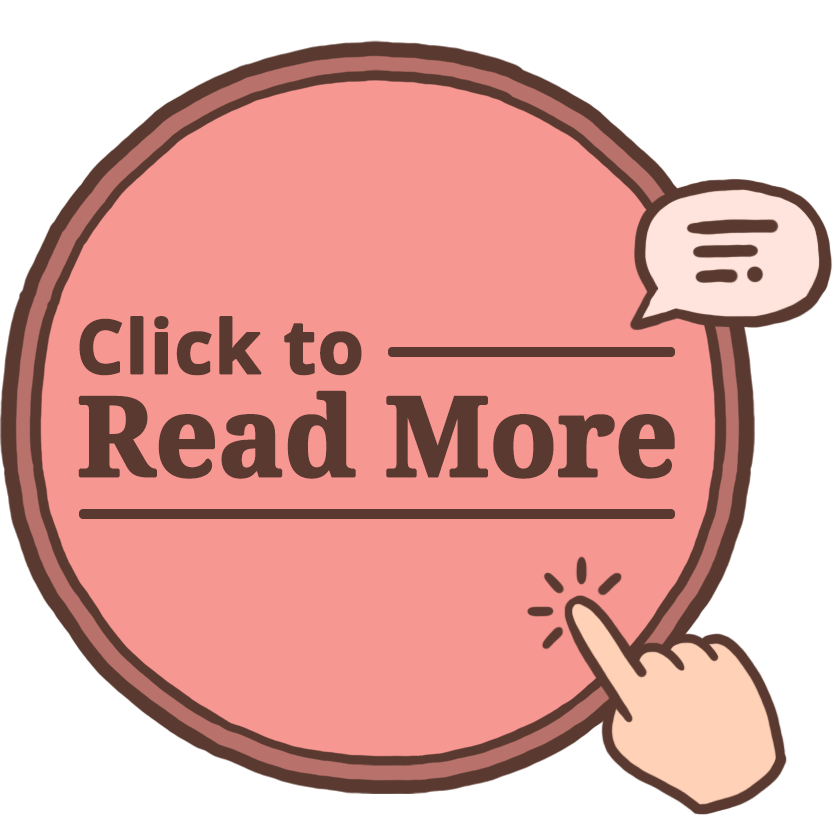
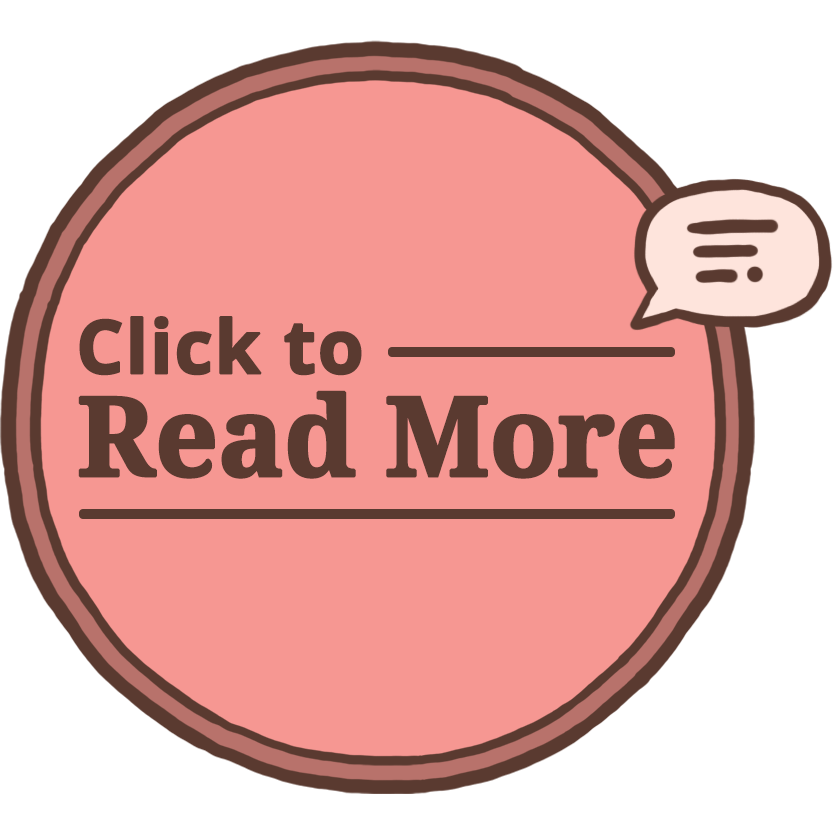
懶人包按鈕的手指更新

Changed region(s): [[0.6235, 0.6547, 0.9664, 0.9976]]

diff --git a/whitecollar/css/layout.css b/whitecollar/css/layout.css
@@ -60,20 +60,16 @@ box-shadow:0 0 10px rgba(0,0,0,0.4);
 }
 .cardBoard.dark {background-image:url("../images/bg-paper-dark.jpg");}
 
-/* .pinSection {margin-bottom:200px;}     */
-
 .wrapTable {display:table; width:100%; table-layout:fixed;}
 
 .cardwpr {position:relative; width:100%;
 margin:0 auto; padding:25px;
-/* display:flex; justify-content:center; align-items:center;      */
 box-sizing:border-box;
 display:table-cell;  
 vertical-align:middle; text-align:center;
 }
 
 .card {margin:auto;
-/* flex-shrink:0;   */
 max-width:100%;   
 max-height:100%;
 object-fit: contain;
@@ -147,10 +143,6 @@ box-sizing:border-box;
 text-align:center;
 }
 .interview--portrait img {margin:0 auto; width:100%;}
-
-/* .clonePortrait {width:240px; margin-bottom:0; margin-right:30px;
-display:none; flex-shrink:0;
-} */
 
 .interview--quote {margin:0 auto; padding:22px 26px; position:relative;
 font-size:18px; color:#5a3a30; line-height:28px; font-weight:400;  
@@ -259,8 +251,6 @@ background-color:rgba(255,218,142,0.6);
 border-bottom:2px solid rgba(65,45,37,0.2);
 }
 
-/* .conclusion--last {padding-right:270px;}  */
-
 .conclusion hr {width:100%; height:3px;
 background-image:url("../images/card/hr-dotted.png"); background-repeat:repeat-x;
 border:none;
@@ -353,6 +343,19 @@ margin-top:-120px; cursor:pointer;
 }
 .glaint--btn img {width:100%;}
 
+.glaint--btn:after {content:""; display:block; width:75px; height:75px;
+position:absolute; right:-1px; bottom:-1px;
+background-image:url("../images/glance/glaintbtn-hand.png"); background-repeat:no-repeat;
+background-size:auto 75px; background-position:0 0;
+transform:scale(0.92);
+transition:200ms; transition-property:right,bottom,transform;
+transition-timing-function:linear;
+}
+.glaint--btn:hover:after {right:11px; bottom:11px;
+background-position:right 0;
+transform:scale(1);
+}
+
 /* --- back home ---*/
 .backhome {display:block; width:100%; height:90px; position:absolute; left:0; bottom:0;
 background-color:#2d2624;
@@ -371,7 +374,6 @@ background-color:#3e3532;
 /* --- idle ---*/
 .idlebox {position:fixed; right:10px; bottom:10px; z-index:9999; 
 display:flex; justify-content:center; align-items:center;    
-/* background-color:rgba(62,53,50,0.9); */
 }
 .idlebox--content {position:relative; padding:30px 40px; margin:0 auto;
 color:#5a3a30;    
@@ -379,7 +381,6 @@ display:flex; justify-content:center; align-items:center;
 background-color:#fff; border-radius:10px;
 box-shadow:0 0 8px rgba(0,0,0,0.6);
 box-sizing:border-box;
-/* position:absolute; right:10px; bottom:10px; */
 }
 .idlebox--content:after {content:""; display:table; clear:both;}
 .idlebox--bear {width:200px;}
@@ -400,15 +401,8 @@ font-size:22px;
 font-weight:bold;
 background-color:#efd9c6; border:4px solid #5a3a30;
 border-radius:6px;
-/* transition:400ms; transition-property:background-color; */
 }
 .idle--btn:hover {background-color:#76f0d2;}
-
-/* .idle--btn.no {padding-bottom:6px;
-border-bottom:3px dotted #7e6862;
-transition:400ms; transition-property:color;
-}
-.idle--btn.no:hover {color:#7e6862;} */
 
 .en .idlebox--content {padding:30px 35px;}
 .en .idle--group {font-family:Tahoma; padding-left:12px;}

diff --git a/whitecollar/js/layout.js b/whitecollar/js/layout.js
@@ -29,7 +29,7 @@ $card.filter(":odd").addClass("dark");
 }
 
 //only for firefox preview
-// $card.filter(":lt(4)").remove();
+// $card.filter(":lt(9)").remove();
 
 /*
 //init ScrollMagic
